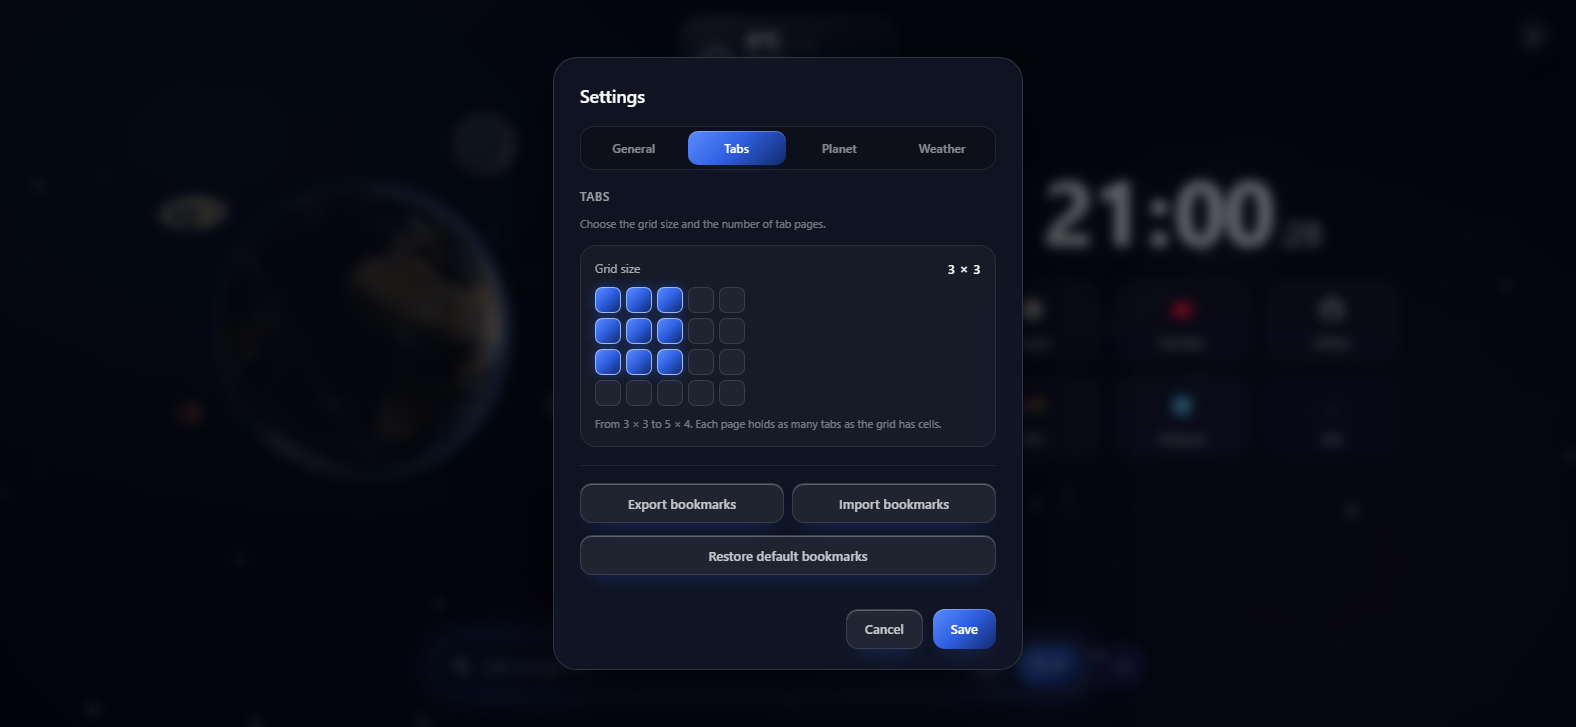
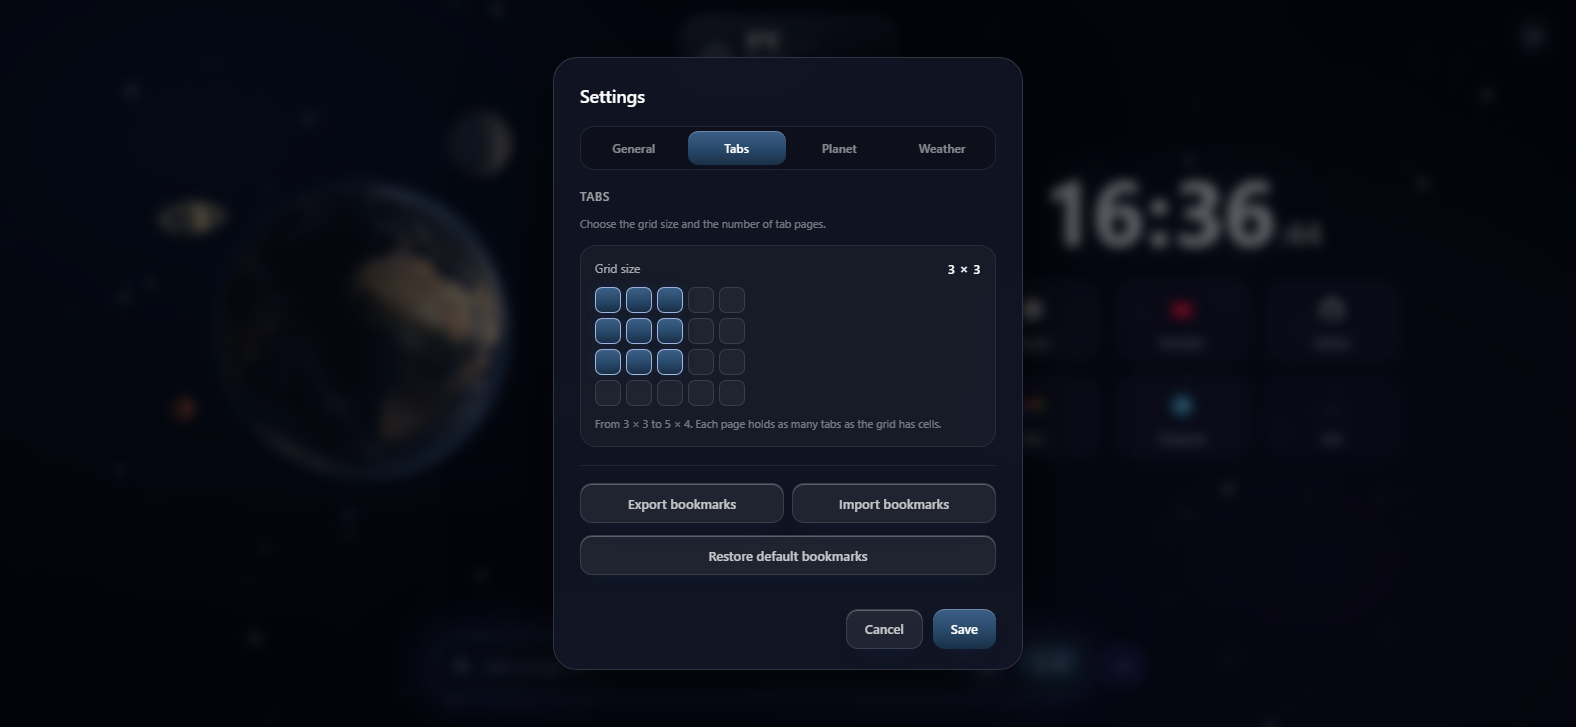
Release 2.6.15: softer slate-blue button gradient

diff --git a/chrome/style.css b/chrome/style.css
@@ -14,8 +14,8 @@
   --accent-violet: #9b5cff;
   --accent-cyan: #22c7e6;
   --accent-pink: #ec4899;
-  --space-gradient: linear-gradient(135deg, #5b8cff 0%, #2f5fe0 48%, #102a6b 100%);
-  --space-glow: rgba(40, 90, 220, 0.45);
+  --space-gradient: linear-gradient(180deg, #3b5f86 0%, #294a6b 52%, #1a2f47 100%);
+  --space-glow: rgba(30, 60, 95, 0.3);
   --tile-columns: 3;
   --tile-rows: 3;
 }
@@ -1518,7 +1518,7 @@ body.layout-bottom .search {
 
 .search-attachment-send:hover {
   box-shadow:
-    0 10px 24px -10px rgba(50, 100, 230, 0.8),
+    0 10px 24px -10px rgba(45, 80, 130, 0.5),
     inset 0 1px 0 rgba(255, 255, 255, 0.3);
 }
 
@@ -1707,7 +1707,7 @@ body.layout-bottom .search {
   background:
     linear-gradient(rgba(13, 17, 32, 0.88), rgba(13, 17, 32, 0.88)) padding-box,
     linear-gradient(110deg,
-      #5b8cff, #2f5fe0, #102a6b, #5b8cff) border-box;
+      #3b5f86, #294a6b, #1a2f47, #3b5f86) border-box;
   background-size: 100% 100%, 300% 100%;
   animation: ai-border 7s linear infinite, ai-pulse 3.4s ease-in-out infinite;
 }
@@ -1716,7 +1716,7 @@ body.layout-bottom .search {
   background:
     linear-gradient(rgba(13, 17, 32, 0.94), rgba(13, 17, 32, 0.94)) padding-box,
     linear-gradient(110deg,
-      #5b8cff, #2f5fe0, #102a6b, #5b8cff) border-box;
+      #3b5f86, #294a6b, #1a2f47, #3b5f86) border-box;
   background-size: 100% 100%, 300% 100%;
 }
 
@@ -2051,7 +2051,7 @@ body.layout-bottom .search {
 }
 
 .btn:hover {
-  filter: brightness(1.08);
+  filter: brightness(1.05);
   transform: translateY(-1px);
 }
 

diff --git a/style.css b/style.css
@@ -14,8 +14,8 @@
   --accent-violet: #9b5cff;
   --accent-cyan: #22c7e6;
   --accent-pink: #ec4899;
-  --space-gradient: linear-gradient(135deg, #5b8cff 0%, #2f5fe0 48%, #102a6b 100%);
-  --space-glow: rgba(40, 90, 220, 0.45);
+  --space-gradient: linear-gradient(180deg, #3b5f86 0%, #294a6b 52%, #1a2f47 100%);
+  --space-glow: rgba(30, 60, 95, 0.3);
   --tile-columns: 3;
   --tile-rows: 3;
 }
@@ -1518,7 +1518,7 @@ body.layout-bottom .search {
 
 .search-attachment-send:hover {
   box-shadow:
-    0 10px 24px -10px rgba(50, 100, 230, 0.8),
+    0 10px 24px -10px rgba(45, 80, 130, 0.5),
     inset 0 1px 0 rgba(255, 255, 255, 0.3);
 }
 
@@ -1707,7 +1707,7 @@ body.layout-bottom .search {
   background:
     linear-gradient(rgba(13, 17, 32, 0.88), rgba(13, 17, 32, 0.88)) padding-box,
     linear-gradient(110deg,
-      #5b8cff, #2f5fe0, #102a6b, #5b8cff) border-box;
+      #3b5f86, #294a6b, #1a2f47, #3b5f86) border-box;
   background-size: 100% 100%, 300% 100%;
   animation: ai-border 7s linear infinite, ai-pulse 3.4s ease-in-out infinite;
 }
@@ -1716,7 +1716,7 @@ body.layout-bottom .search {
   background:
     linear-gradient(rgba(13, 17, 32, 0.94), rgba(13, 17, 32, 0.94)) padding-box,
     linear-gradient(110deg,
-      #5b8cff, #2f5fe0, #102a6b, #5b8cff) border-box;
+      #3b5f86, #294a6b, #1a2f47, #3b5f86) border-box;
   background-size: 100% 100%, 300% 100%;
 }
 
@@ -2051,7 +2051,7 @@ body.layout-bottom .search {
 }
 
 .btn:hover {
-  filter: brightness(1.08);
+  filter: brightness(1.05);
   transform: translateY(-1px);
 }
 

diff --git a/README_RU.md b/README_RU.md
@@ -19,7 +19,7 @@
   <img src="https://img.shields.io/badge/Firefox-supported-FF7139?style=for-the-badge&logo=firefoxbrowser&logoColor=white" alt="Firefox">
   <img src="https://img.shields.io/badge/Firefox%20Android-supported-FF7139?style=for-the-badge&logo=firefoxbrowser&logoColor=white" alt="Firefox для Android">
   <img src="https://img.shields.io/badge/Chrome-supported-4285F4?style=for-the-badge&logo=googlechrome&logoColor=white" alt="Chrome">
-  <img src="https://img.shields.io/badge/version-2.6.14-8A7BFF?style=for-the-badge" alt="Версия 2.6.14">
+  <img src="https://img.shields.io/badge/version-2.6.15-8A7BFF?style=for-the-badge" alt="Версия 2.6.15">
   <img src="https://img.shields.io/badge/license-MIT-3FB950?style=for-the-badge" alt="Лицензия MIT">
 </p>
 

diff --git a/README.md b/README.md
@@ -19,7 +19,7 @@
   <img src="https://img.shields.io/badge/Firefox-supported-FF7139?style=for-the-badge&logo=firefoxbrowser&logoColor=white" alt="Firefox">
   <img src="https://img.shields.io/badge/Firefox%20Android-supported-FF7139?style=for-the-badge&logo=firefoxbrowser&logoColor=white" alt="Firefox for Android">
   <img src="https://img.shields.io/badge/Chrome-supported-4285F4?style=for-the-badge&logo=googlechrome&logoColor=white" alt="Chrome">
-  <img src="https://img.shields.io/badge/version-2.6.14-8A7BFF?style=for-the-badge" alt="Version 2.6.14">
+  <img src="https://img.shields.io/badge/version-2.6.15-8A7BFF?style=for-the-badge" alt="Version 2.6.15">
   <img src="https://img.shields.io/badge/license-MIT-3FB950?style=for-the-badge" alt="MIT License">
 </p>
 
